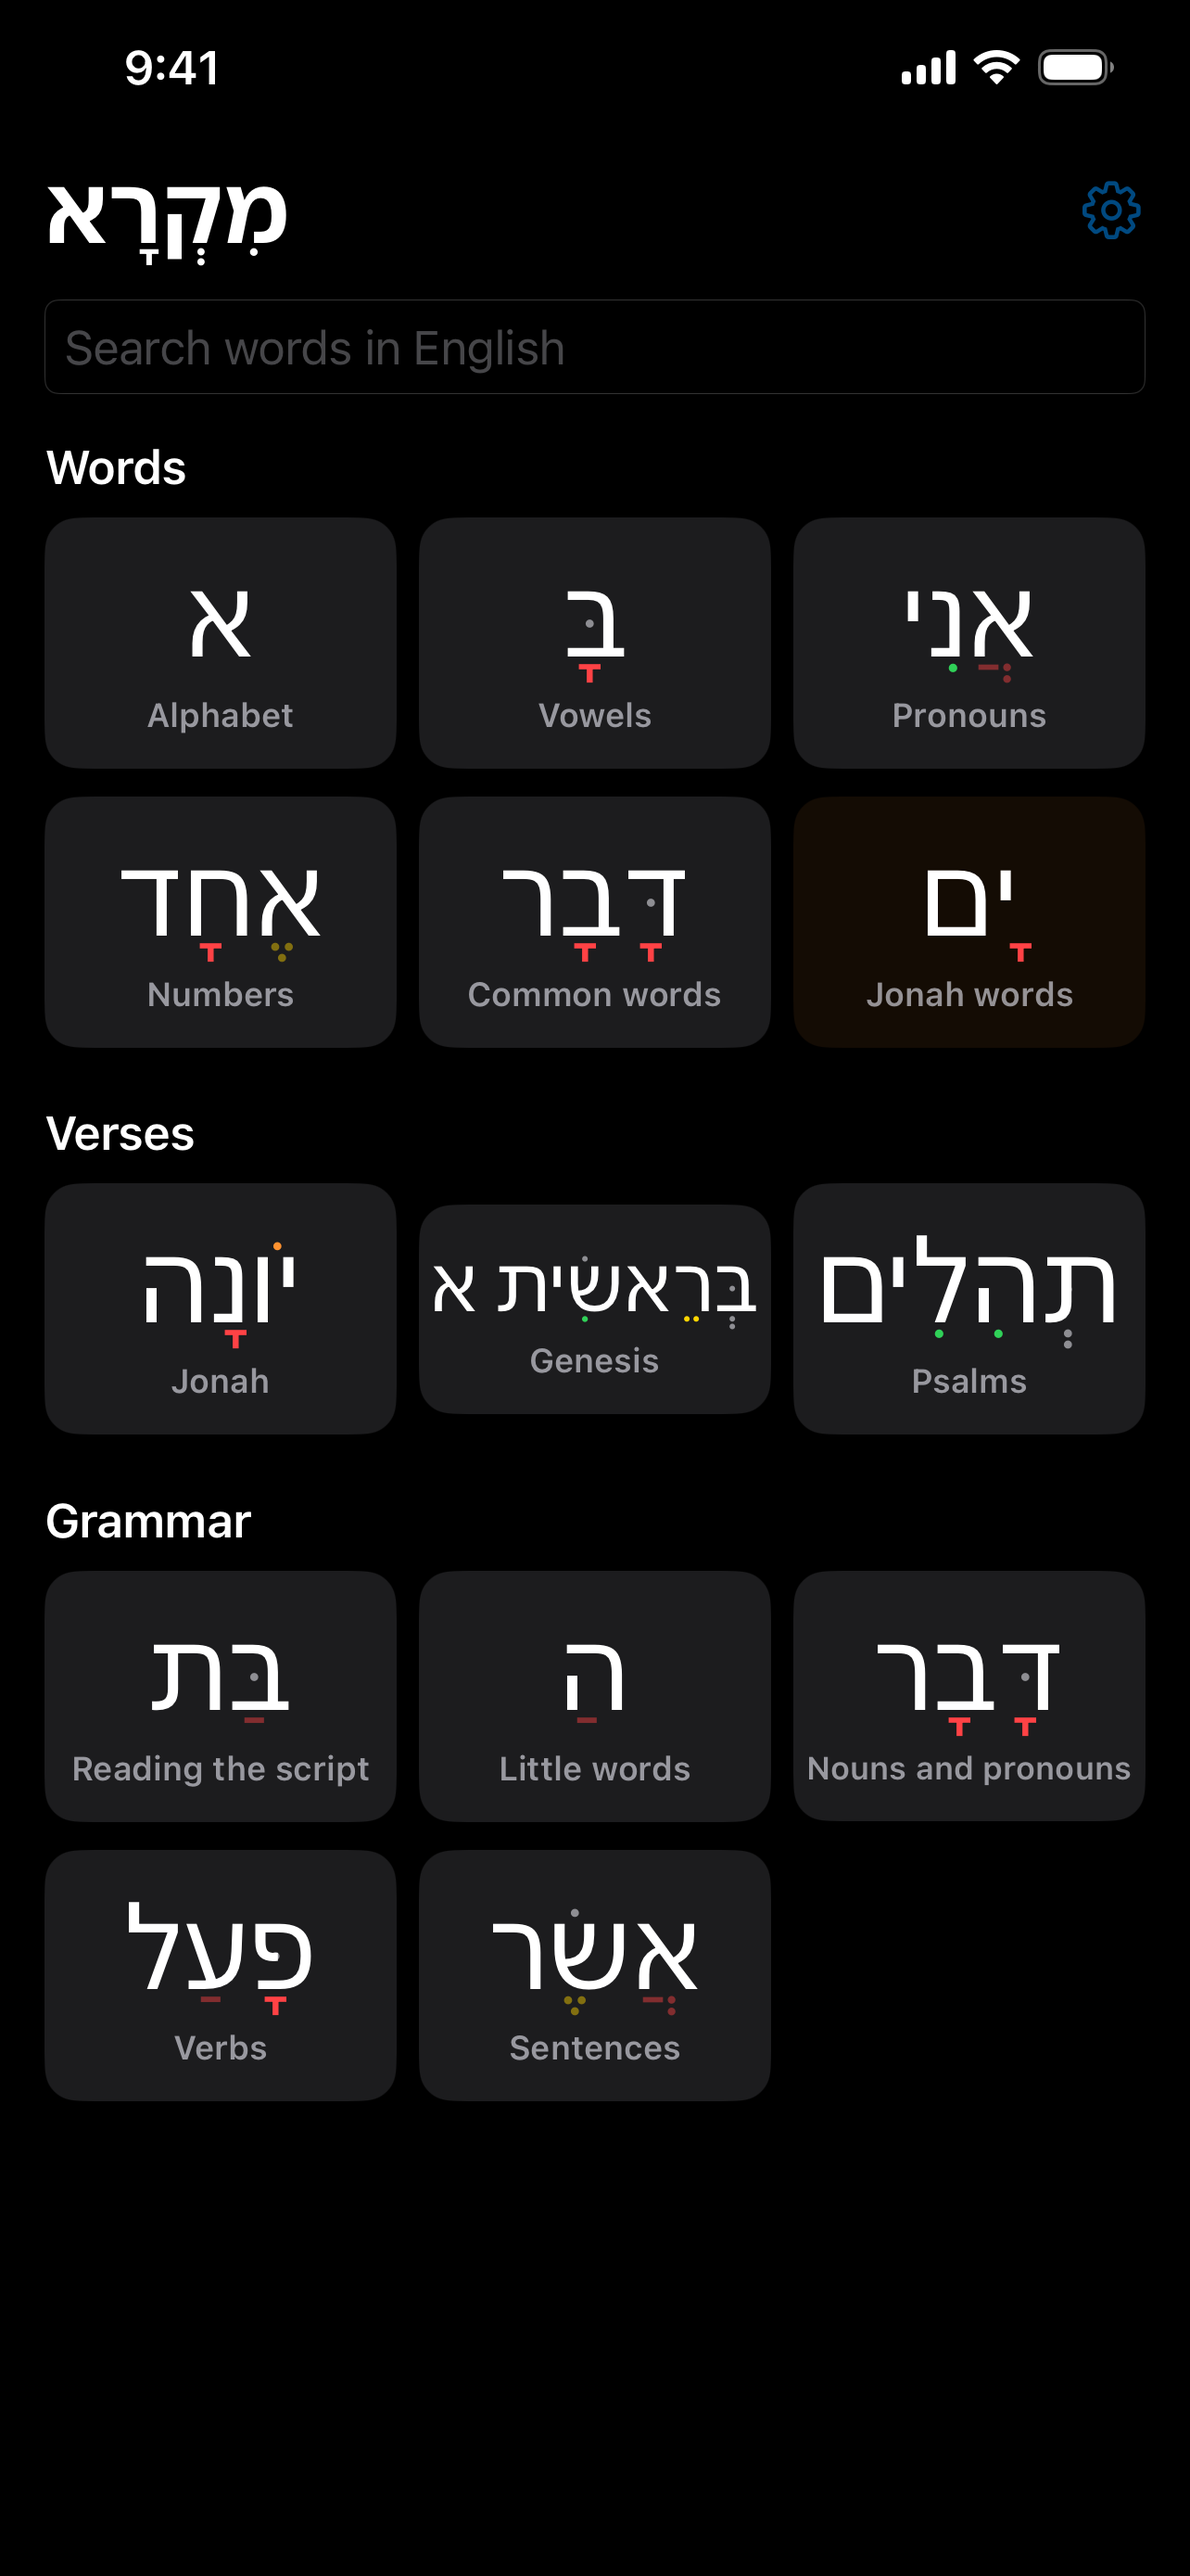
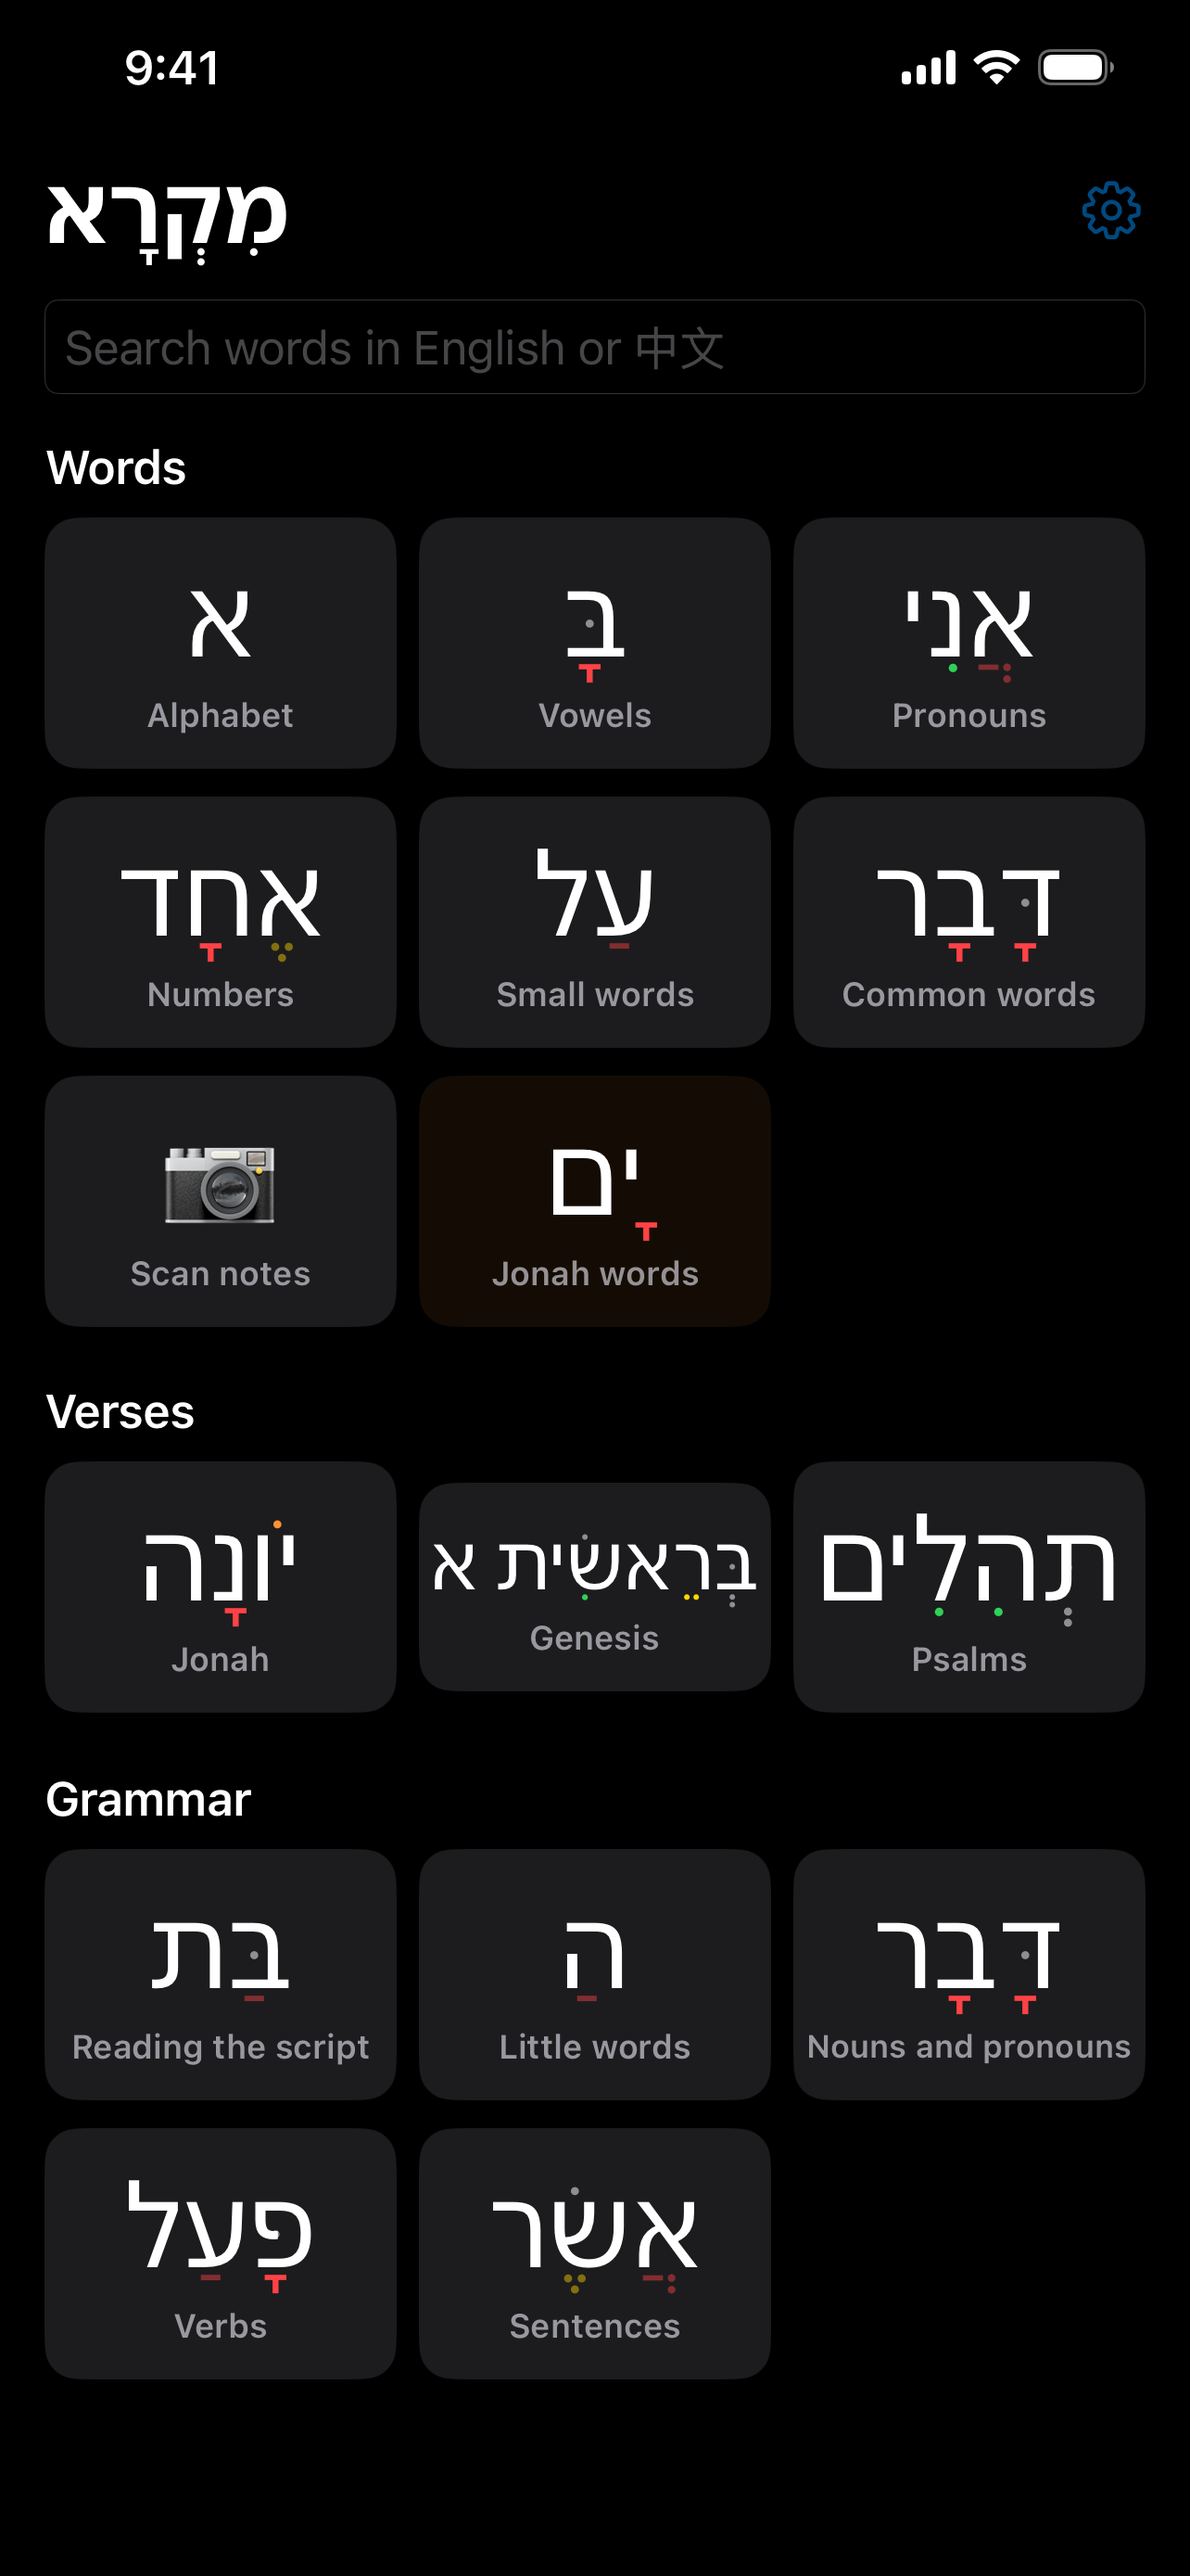
Refresh screenshots for 1.4 and add a Scan notes screen

Changed region(s): [[0.0312, 0.3096, 0.9657, 0.9287], [0.405, 0.3096, 0.5919, 0.4024], [0.5296, 0.1238, 0.5919, 0.1548]]

diff --git a/appstore/SUBMISSION.md b/appstore/SUBMISSION.md
@@ -8,7 +8,7 @@
 - [x] Version 1.2 (build 6, uploaded 2026-09-26): dashboard home (words / verses / grammar), pronoun and number decks, 40 grammar lessons with tables, settings (appearance, reading speed), pronunciation after reveal — **approved and live**
 - [x] Version 1.3 (build 9, uploaded 2026-09-30; builds 7 and 8 superseded — build 9 fixes the word deck, which had been missing son, house, people, city, eye and 155 other common words): custom word sets (bookmark on any card; sets open as shuffled flash cards), Chinese meanings (Settings → Meanings), verse page opens on text + translation with a None/Meaning/Reading picker under each word, record yourself reading a verse and play it back, coloured vowel points everywhere, five word bands
 - [x] Export compliance key (ITSAppUsesNonExemptEncryption=NO)
-- [x] Screenshots in appstore/screenshots/: one set only — dark mode, 6.5" (`dark-*-6.5.png`, 1284×2778, iPhone 14 Plus simulator), five screens (home, verse, pronoun deck, grammar lesson, vowel card), captured with the -openVerse/-openDeck/-reveal/-openLesson/-openVowel launch hooks with the home seeded with one custom set and the verse in Meaning mode. Upload the same five for the 6.9" slot; App Store Connect accepts 6.5" there. The light and 6.9" sets were dropped for 1.3.
+- [x] Screenshots in appstore/screenshots/: one set only — dark mode, 6.5" (`dark-*-6.5.png`, 1284×2778, iPhone 14 Plus simulator), six screens (home, verse, pronoun deck, grammar lesson, vowel card, scan notes), captured 2026-10-02 for 1.4 with the -openVerse/-openDeck/-reveal/-openLesson/-openVowel/-scanText= launch hooks, the home seeded with one custom set, the verse in Meaning mode, and `simctl status_bar override --time 9:41 --batteryState discharging --batteryLevel 100 --wifiBars 3 --cellularBars 4`. Upload the same five for the 6.9" slot; App Store Connect accepts 6.5" there. The light and 6.9" sets were dropped for 1.3.
 - [x] Metadata drafts (metadata.md)
 - [x] Privacy policy text (privacy-policy.md)
 
@@ -25,7 +25,7 @@
 - [x] 1.0 version page (done for 1.0).
 - [x] 1.2 version page (done, live).
 - [x] Version 1.4 (build 10, uploaded 2026-10-02): Scan notes (photograph or paste a word list in English, 中文 or Hebrew; the words Mikra knows become a new set or join an existing one), part of speech on every word card, custom sets open as a list with a shuffle button, "See also" words read aloud in place with their pronunciation, listening test on word decks; "Learn this" and the spaced-repetition review removed.
-- [ ] **1.4 version page**: create the 1.4 version in App Store Connect, select build 10 once processed, paste “What’s New” (below), then submit. Screenshots still show 1.3; the home screen gained a Scan notes tile, so recapture if time allows.
+- [ ] **1.4 version page**: create the 1.4 version in App Store Connect, select build 10 once processed, upload the six `dark-*-6.5.png` screenshots (the 6.9" slot accepts them), paste “What’s New” (below), then submit.
 
 What’s New for 1.4:
 
